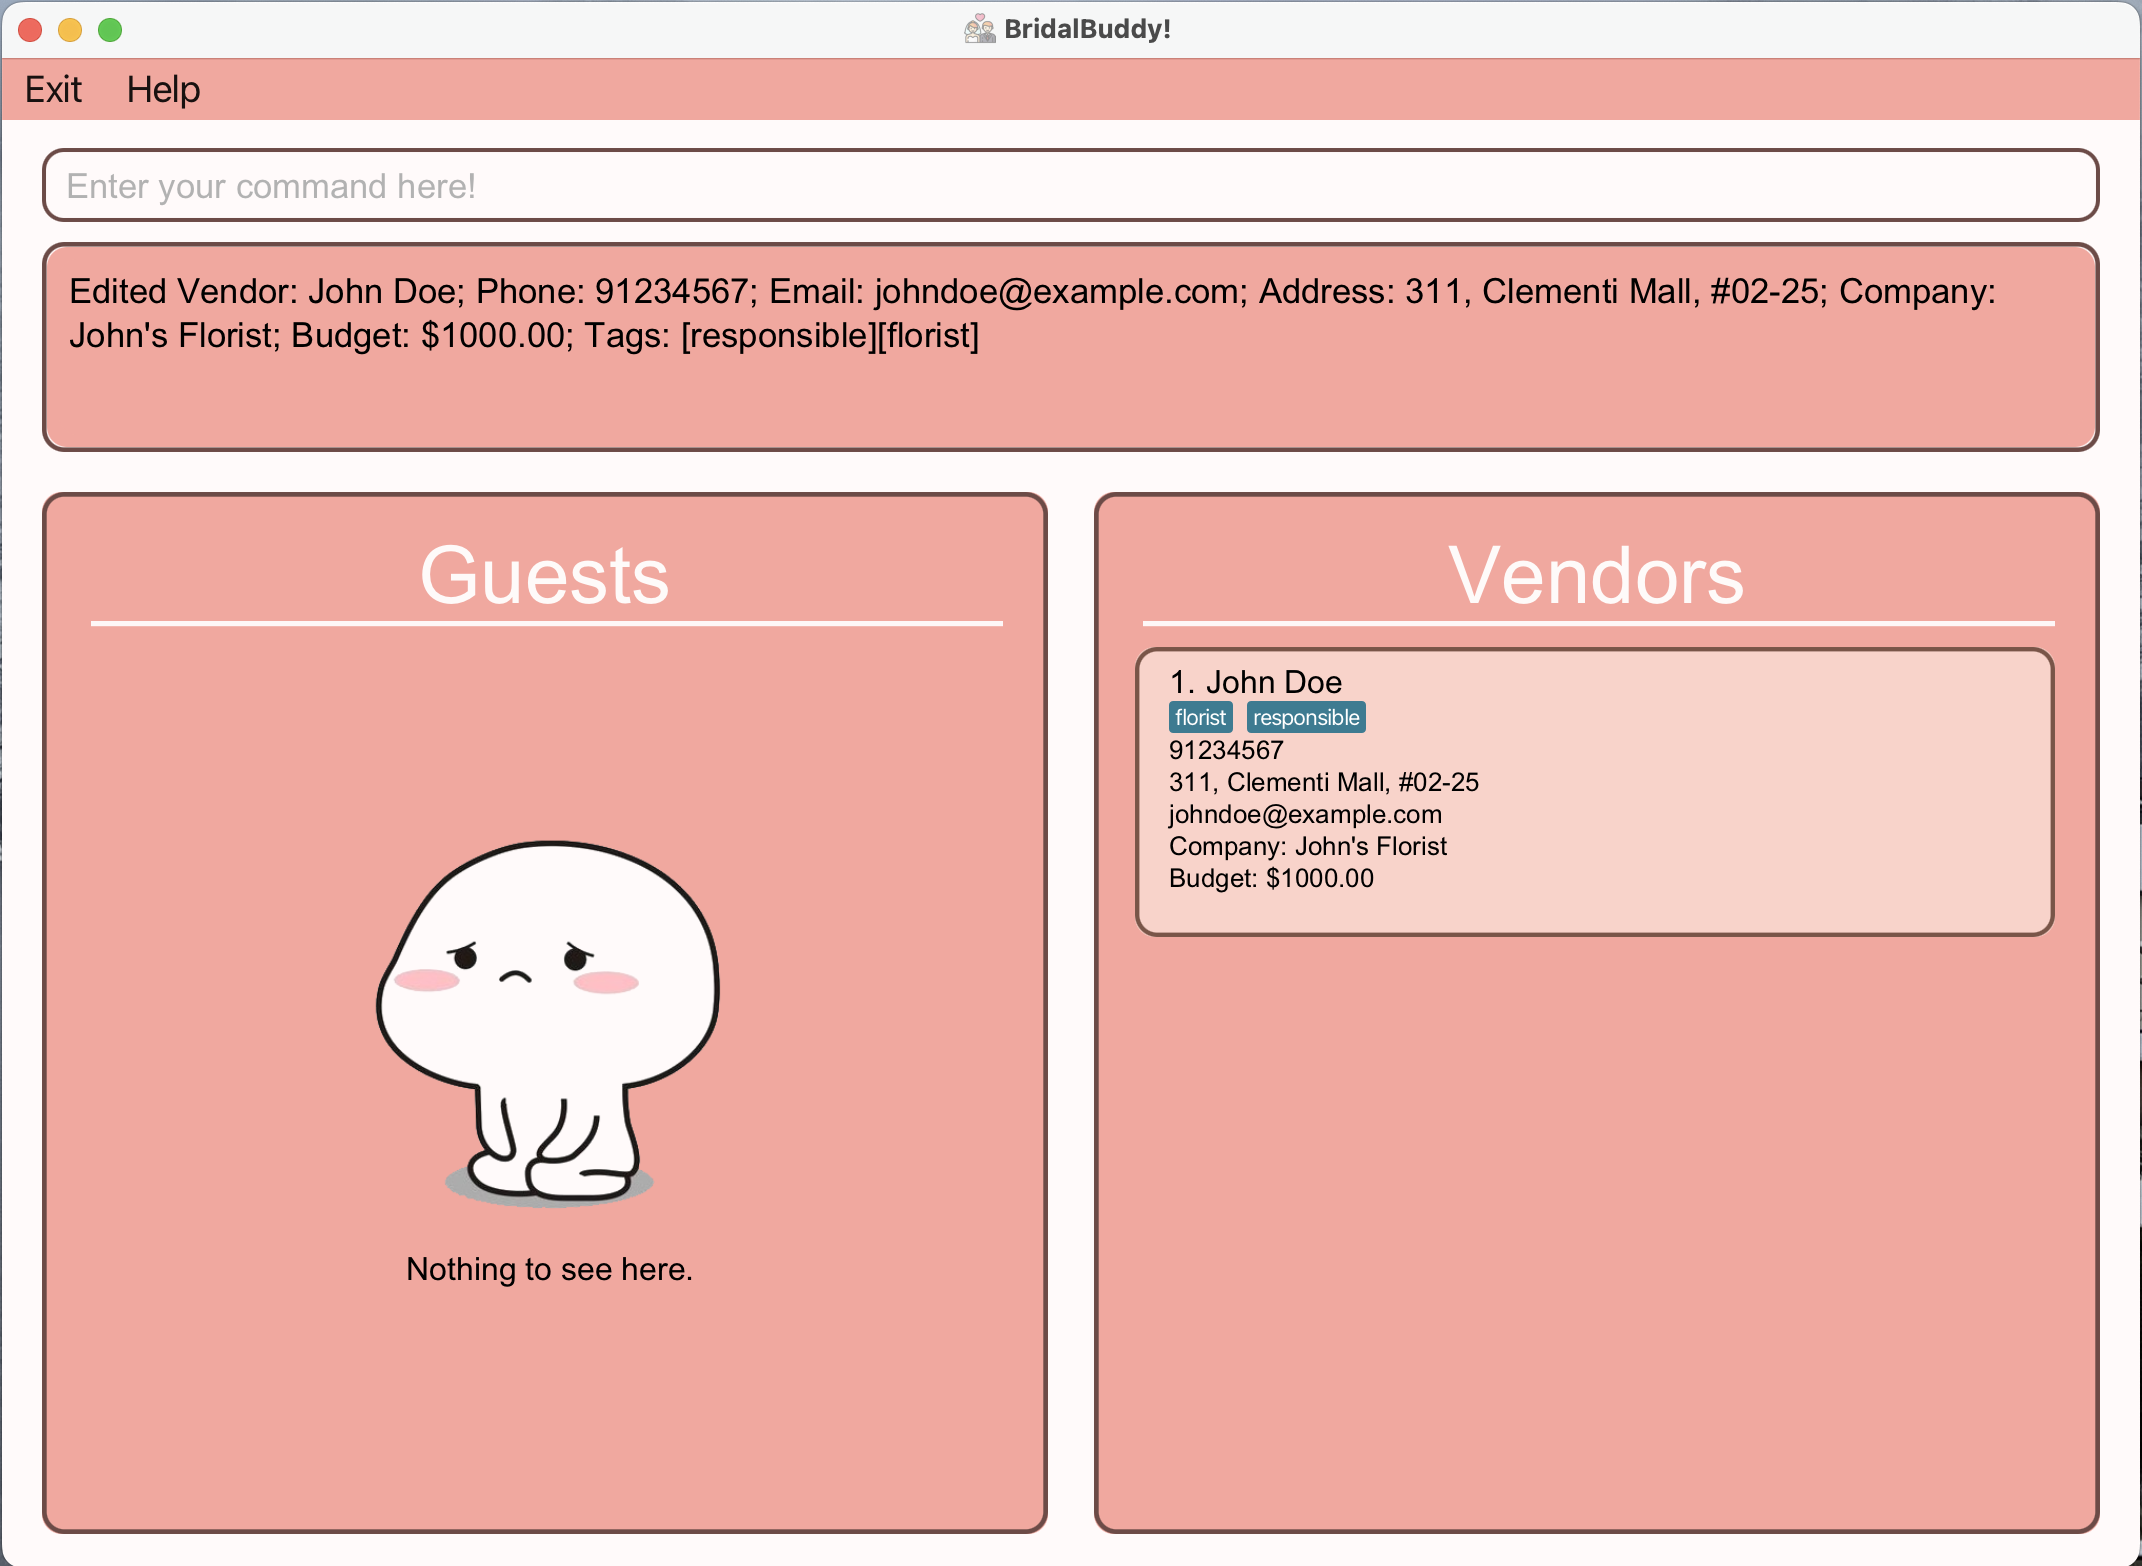
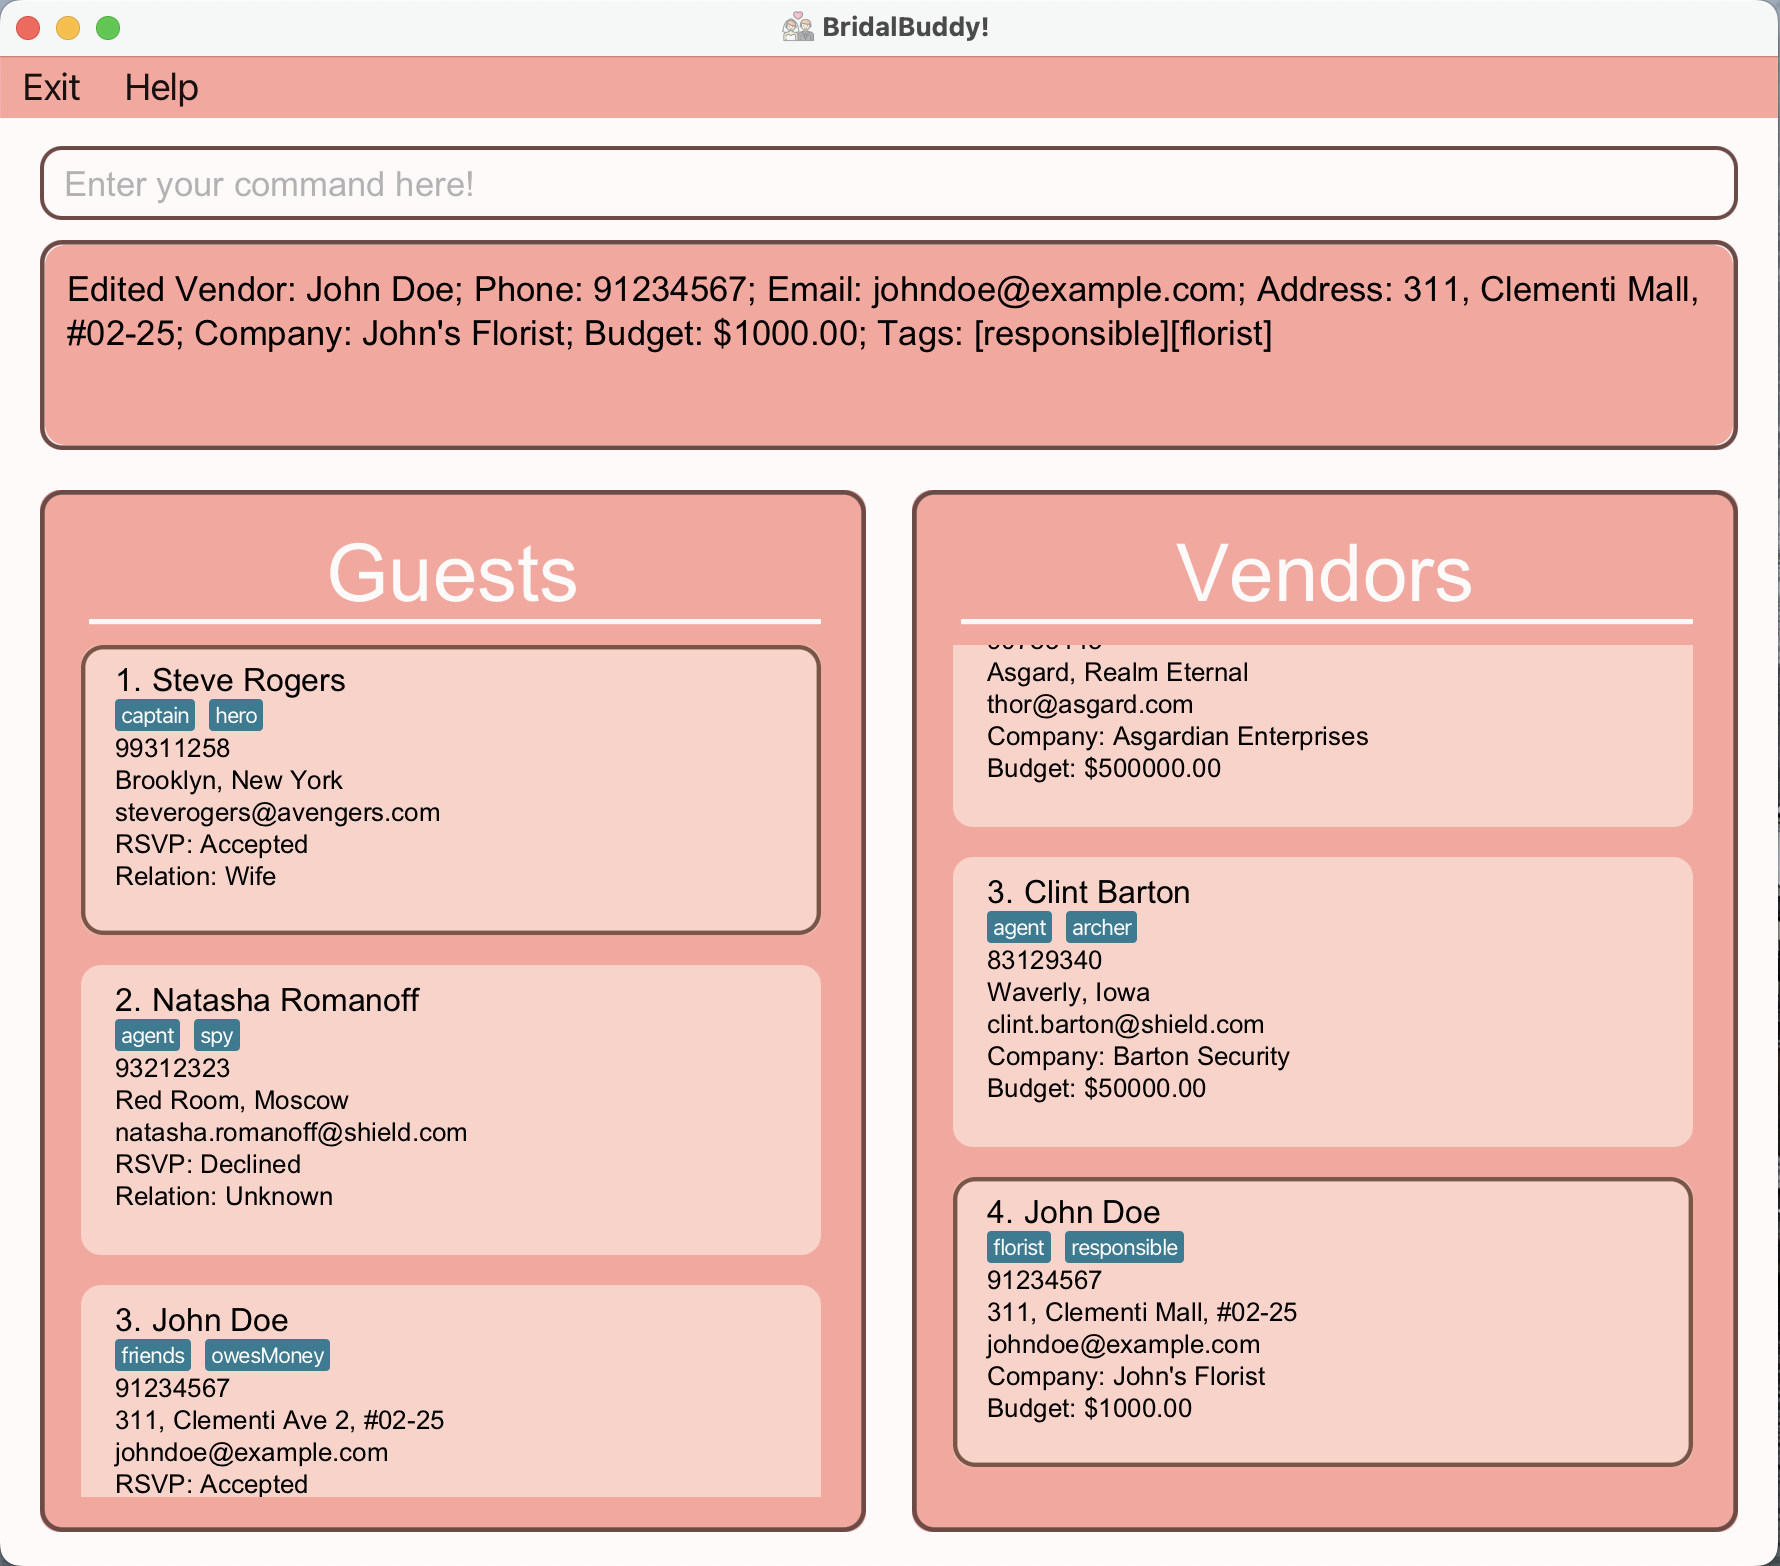
Add updated vendor screenshots

diff --git a/docs/UserGuide.md b/docs/UserGuide.md
@@ -376,7 +376,7 @@ This command will help you add a new guest to the bottom of the existing overall
 
 **Example Usage:** `add_guest n/John Doe p/98765432 e/johnd@example.com a/311, Clementi Ave 2, #02-25 rsvp/A r/U t/friends t/owesMoney`
 
-Entering the `add_guest n/John Doe p/98765432 e/johnd@example.com a/311, Clementi Ave 2, #02-25 rsvp/A r/U t/friends t/owesMoney` command and scrolling to the bottom of the guest list returns the following result on your screen:
+Entering the `add_guest n/John Doe p/98765432 e/johnd@example.com a/311, Clementi Ave 2, #02-25 rsvp/A r/U t/friends t/owesMoney` command returns the following result on your screen:
 
 ![add_guest command](images/addGuestCommand.png)
 
@@ -397,7 +397,7 @@ This command will allow you to edit the details of the guest identified by the `
 
 **Example Usage:** `edit_guest 4 p/91234567 e/johndoe@example.com`
 
-Entering the `edit_guest 4 p/91234567 e/johndoe@example.com` command and scrolling to the bottom of your guest list returns the following result on your screen:
+Entering the `edit_guest 4 p/91234567 e/johndoe@example.com` command returns the following result on your screen:
 
 ![edit_guest command](images/editGuestCommand.png)
 
@@ -458,11 +458,11 @@ This command will allow you to edit the details of the vendor identified by the 
 
 * :information_source: The `INDEX` you enter should be the `INDEX` of the vendor you want to edit on the **exact vendor list currently displayed on your screen**.
 
-    * Even if a `vendor` `John Doe` has an `INDEX` of 3 on the overall guest list, entering `find n/John` followed by `edit_vendor 1 p/91234567 e/johndoe@example.com` would still edit the details of `John Doe`, assuming that there is only 1 vendor with `John` in their name.
+    * Even if a `vendor` `John Doe` has an `INDEX` of 4 on the overall guest list, entering `find n/John` followed by `edit_vendor 1 p/91234567 e/johndoe@example.com` would still edit the details of `John Doe`, assuming that there is only 1 vendor with `John` in their name.
 
-**Example Usage:** `edit_vendor 1 p/91234567 e/johndoe@example.com`
+**Example Usage:** `edit_vendor 4 p/91234567 e/johndoe@example.com`
 
-Entering the `edit_vendor 1 p/91234567 e/johndoe@example.com` command returns the following result on your screen:
+Entering the `edit_vendor 4 p/91234567 e/johndoe@example.com` command returns the following result on your screen:
 
 ![edit_vendor command](images/editVendorCommand.png)
 
@@ -481,7 +481,7 @@ This command will help you delete a vendor from your existing vendor list, ident
 
 **Example Usage:** `delete_vendor 1`
 
-Entering the `delete_vendor 1` command returns the following result on your screen:
+Assuming that `Vendor` `Bruce Banner` has an `INDEX` of 1 on the existing guest list, entering the `delete_vendor 1` command returns the following result on your screen:
 
 ![delete_vendor command](images/deleteVendorCommand.png)
 
